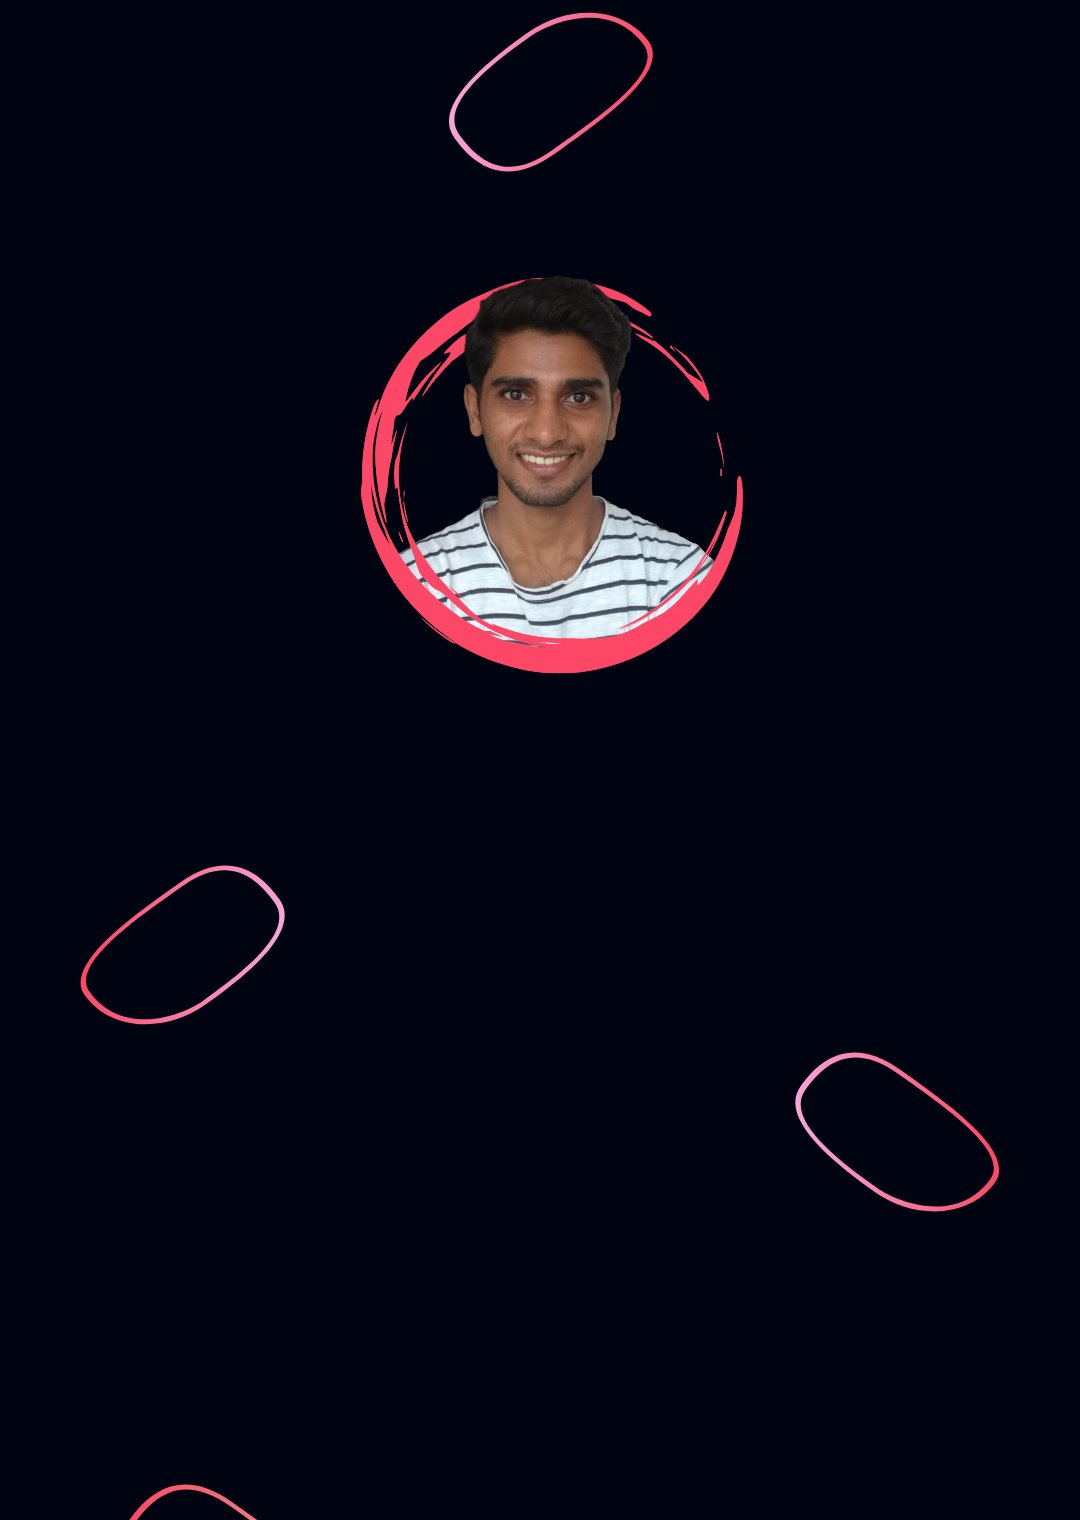
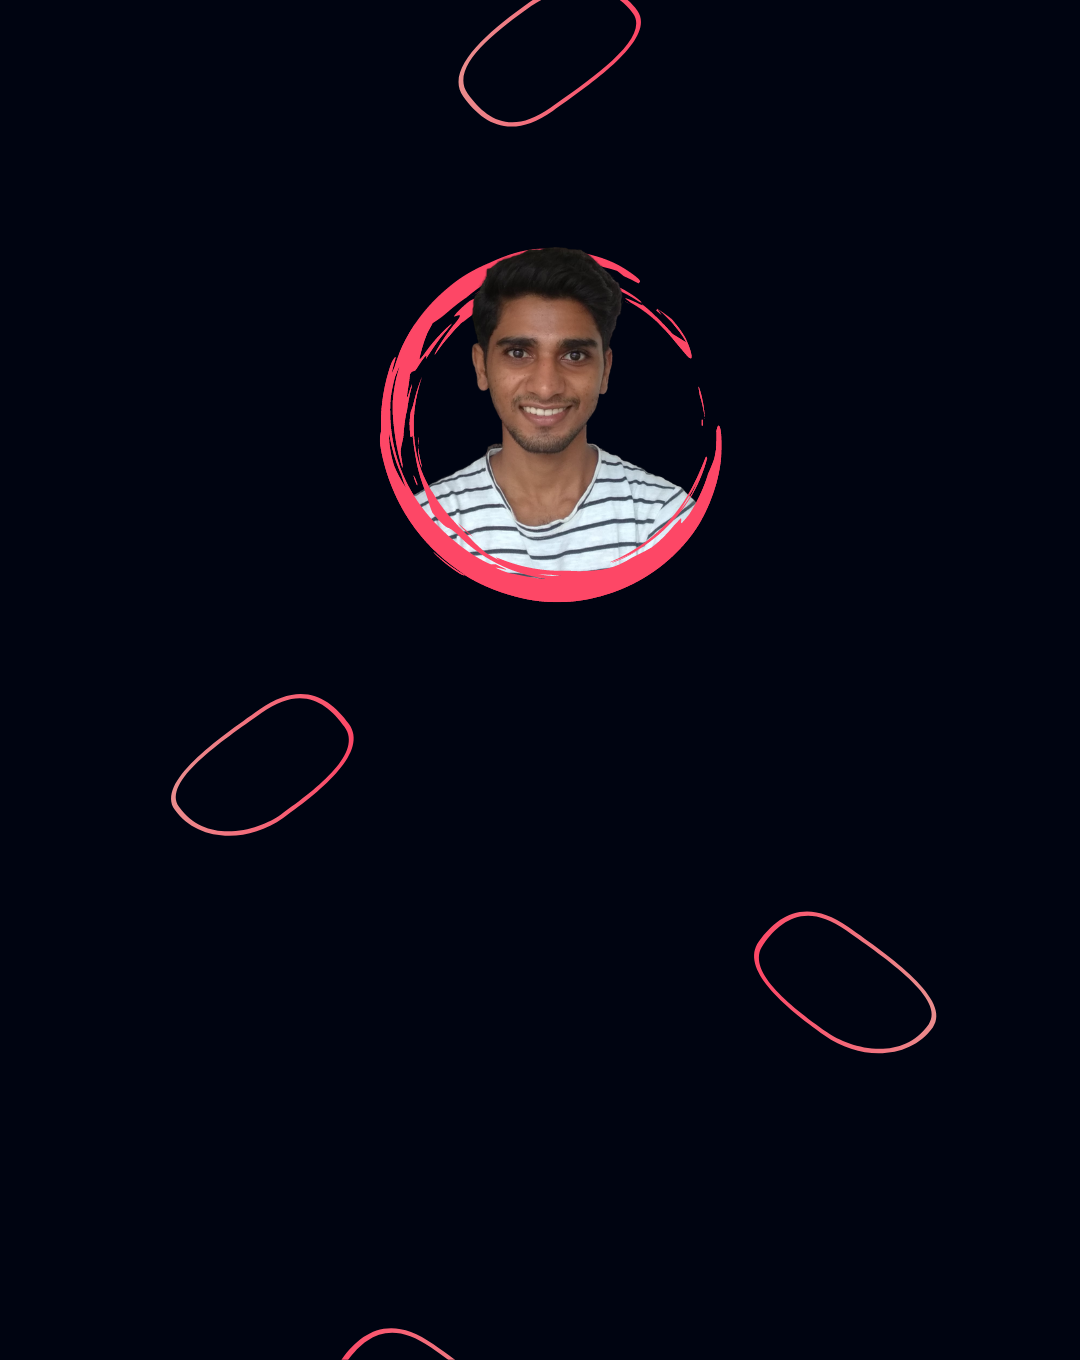
responsive images

diff --git a/css/responsive-style.css b/css/responsive-style.css
@@ -54,7 +54,7 @@
     .portfolio_wrapper {
         width: 100%;
         height: auto;
-        min-height: 580px;
+        min-height: 480px;
         background-image: url('../images/bg3.png');
         background-repeat: no-repeat;
         background-position: center;
@@ -89,19 +89,19 @@
     .banner_wrapper {
         width: 100%;
         height: auto;
-        min-height: 710px;
+        min-height: 550px;
         background-image: url('../images/1.png');
         background-repeat: no-repeat;
         background-position: center;
         background-size: cover;
         background-attachment: scroll;
-        padding: 330px 0 0 0;
+        padding: 300px 0 50px 0;
     }
     /* About */
     .about_wrapper {
         width: 100%;
         height: auto;
-        min-height: 710px;
+        min-height: 550px;
         background-image: url('../images/2.png');
         background-repeat: no-repeat;
         background-position: center;
@@ -112,7 +112,7 @@
     .portfolio_wrapper {
         width: 100%;
         height: auto;
-        min-height: 710px;
+        min-height: 550px;
         background-image: url('../images/3.png');
         background-repeat: no-repeat;
         background-position: center;
@@ -123,7 +123,7 @@
     .contact_wrapper {
         width: 100%;
         height: auto;
-        min-height: 710px;
+        min-height: 550px;
         background-image: url('../images/4.png');
         background-repeat: no-repeat;
         background-position: center;
